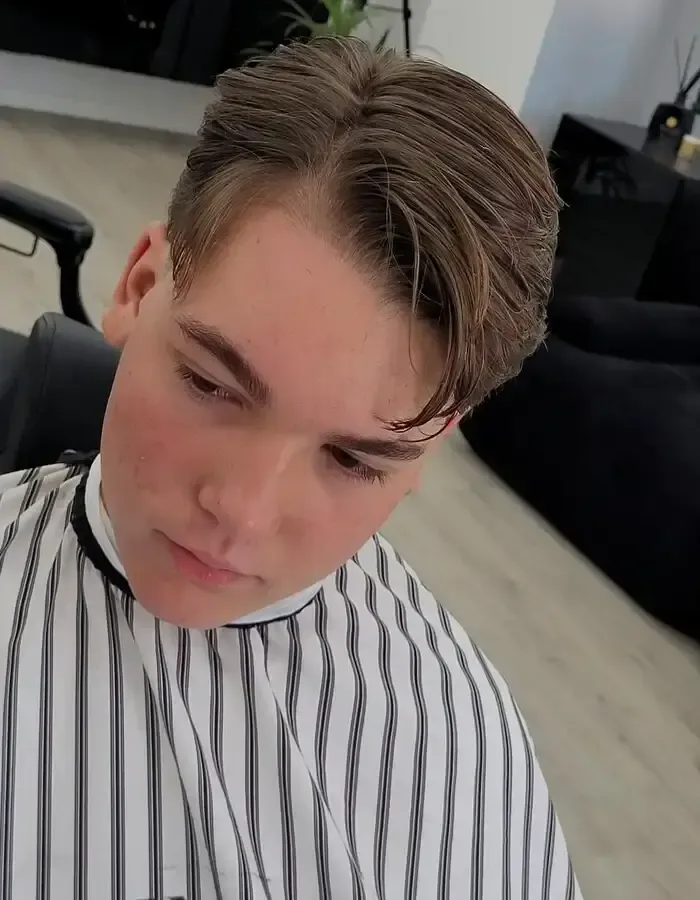
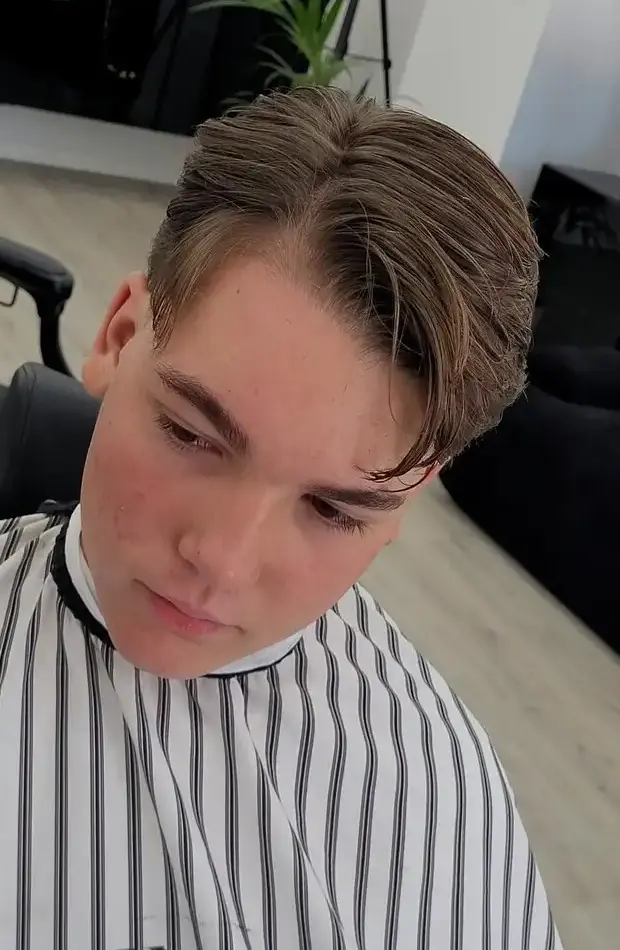
Bajar el zoom de las fotos de Corte y centrar sobre la cara sin cortarla
Con el fix de cover del commit anterior el zoom quedó muy fuerte (heredado
del recorte más ajustado de una ronda previa) y el cover terminaba
recortando la cara en las 3 fotos por estar descentradas horizontalmente
en la fuente. Recorte nuevo desde los originales sin comprimir: menos
zoom (se ve más torso/contexto) y centrado sobre la cabeza/rostro real de
cada persona para que el cover no le corte la cara a nadie.

diff --git a/index.html b/index.html
@@ -9,8 +9,8 @@
[1 lines of base64/hex data omitted]
 <link rel="preload" as="font" type="font/woff2" href="fonts/fraunces-normal-500-600.woff2" crossorigin>
 <link rel="preload" as="font" type="font/woff2" href="fonts/inter-400-500-600.woff2" crossorigin>
-<link rel="preload" as="style" href="styles.min.css?v=20260819j">
-<link rel="stylesheet" href="styles.min.css?v=20260819j">
+<link rel="preload" as="style" href="styles.min.css?v=20260819k">
+<link rel="stylesheet" href="styles.min.css?v=20260819k">
 <script type="application/ld+json">
 {
   "@context": "https://schema.org",
@@ -105,9 +105,9 @@
       <div class="bento-grid">
         <article class="bento-item b-1" data-reveal>
           <div class="b1-photos" aria-hidden="true">
-            <span style="background-image:url('assets/corte-4.webp?v=20260819j')"></span>
-            <span style="background-image:url('assets/corte-5.webp?v=20260819j')"></span>
-            <span style="background-image:url('assets/corte-7.webp?v=20260819j')"></span>
+            <span style="background-image:url('assets/corte-4.webp?v=20260819k')"></span>
+            <span style="background-image:url('assets/corte-5.webp?v=20260819k')"></span>
+            <span style="background-image:url('assets/corte-7.webp?v=20260819k')"></span>
           </div>
           <div class="b1-content">
             <span class="b-num">01</span>
